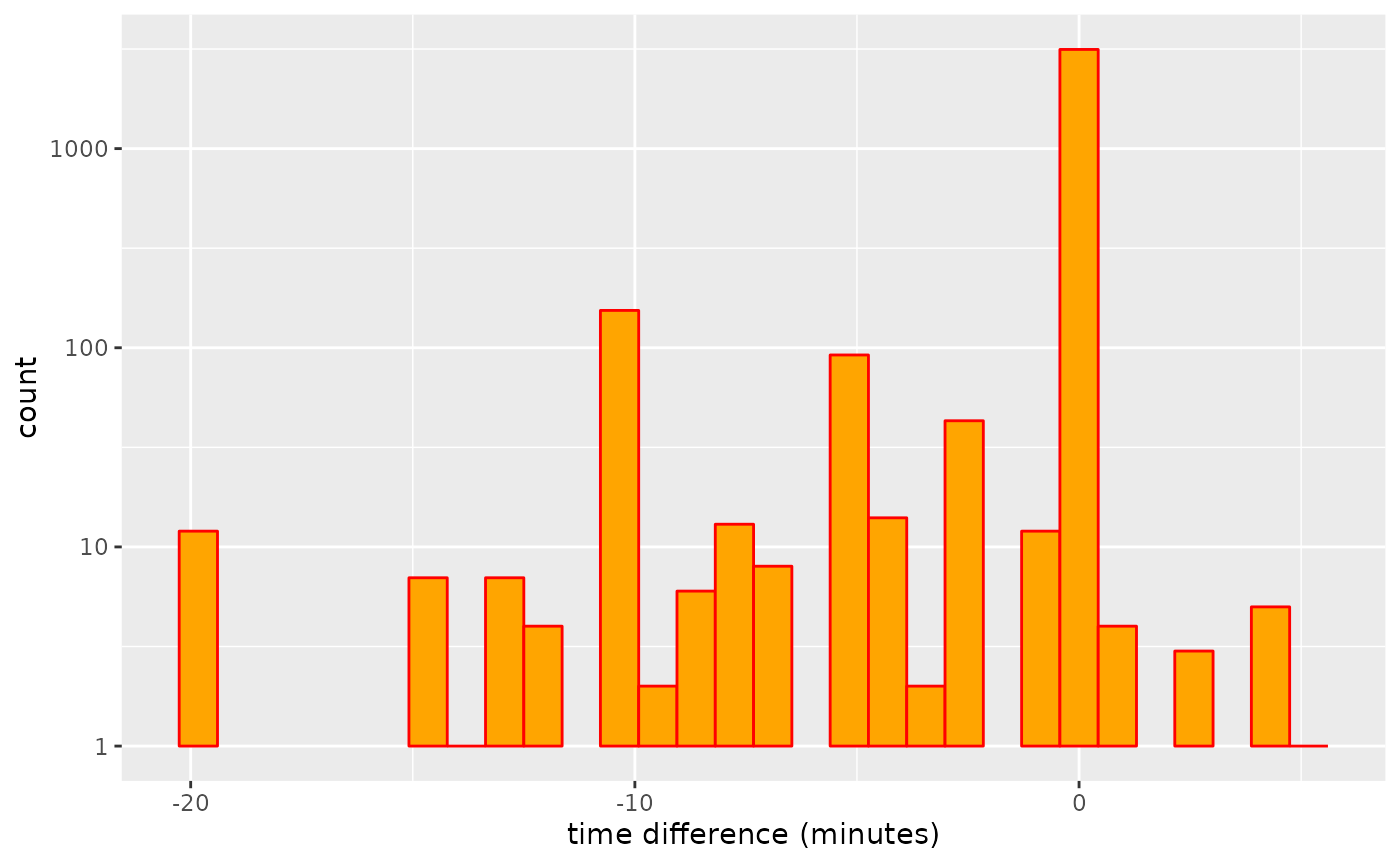
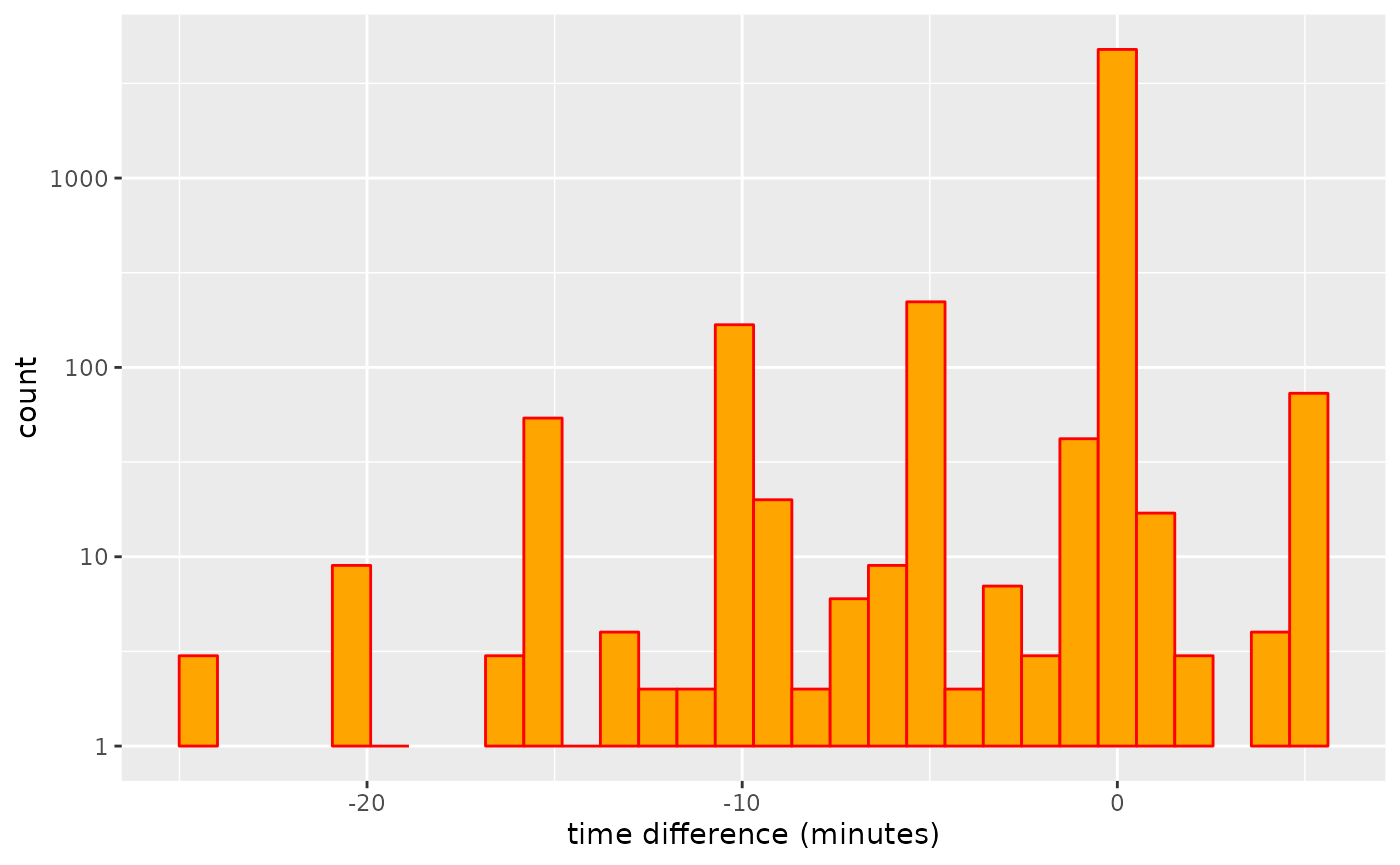
Deploying to gh-pages from @ ATFutures/gtfs-router@fb224cba6262847dd1db0ab573176840782fd7f6 🚀

diff --git a/docs/articles/gtfsrouter.html b/docs/articles/gtfsrouter.html
@@ -33,7 +33,7 @@
       </button>
       <span class="navbar-brand">
         <a class="navbar-link" href="../index.html">gtfsrouter</a>
-        <span class="version label label-default" data-toggle="tooltip" data-placement="bottom" title="">0.0.5.153</span>
+        <span class="version label label-default" data-toggle="tooltip" data-placement="bottom" title="">0.0.5.155</span>
       </span>
     </div>
 
@@ -126,7 +126,7 @@ to a locally-stored <code>.zip</code> archive in the
 data can be exported and re-imported with:</p>
 <div class="sourceCode" id="cb1"><pre class="downlit sourceCode r">
 <code class="sourceCode R"><span><span class="fu"><a href="../reference/berlin_gtfs_to_zip.html">berlin_gtfs_to_zip</a></span><span class="op">(</span><span class="op">)</span></span></code></pre></div>
-<pre><code><span><span class="co">## [1] "/tmp/Rtmpyirhtj/vbb.zip"</span></span></code></pre>
+<pre><code><span><span class="co">## [1] "/tmp/RtmphzCcmX/vbb.zip"</span></span></code></pre>
 <div class="sourceCode" id="cb3"><pre class="downlit sourceCode r">
 <code class="sourceCode R"><span><span class="va">f</span> <span class="op">&lt;-</span> <span class="fu"><a href="https://rdrr.io/r/base/file.path.html" class="external-link">file.path</a></span> <span class="op">(</span><span class="fu"><a href="https://rdrr.io/r/base/tempfile.html" class="external-link">tempdir</a></span> <span class="op">(</span><span class="op">)</span>, <span class="st">"vbb.zip"</span><span class="op">)</span></span>
 <span><span class="fu"><a href="https://rdrr.io/r/base/files.html" class="external-link">file.exists</a></span> <span class="op">(</span><span class="va">f</span><span class="op">)</span></span></code></pre></div>
@@ -347,7 +347,7 @@ data:</p>
 <span>                day <span class="op">=</span> <span class="st">"Sunday"</span><span class="op">)</span></span>
 <span>    <span class="op">)</span></span></code></pre></div>
 <pre><code><span><span class="co">##    user  system elapsed </span></span>
-<span><span class="co">##   0.082   0.000   0.082</span></span></code></pre>
+<span><span class="co">##   0.052   0.000   0.053</span></span></code></pre>
 <div class="sourceCode" id="cb14"><pre class="downlit sourceCode r">
 <code class="sourceCode R"><span><span class="fu"><a href="https://rdrr.io/r/base/names.html" class="external-link">names</a></span> <span class="op">(</span><span class="va">gtfs</span><span class="op">)</span></span></code></pre></div>
 <pre><code><span><span class="co">## [1] "calendar"   "routes"     "trips"      "stop_times" "stops"     </span></span>
@@ -365,7 +365,7 @@ data:</p>
 <span>                         to <span class="op">=</span> <span class="va">to</span>,</span>
 <span>                         start_time <span class="op">=</span> <span class="st">"12:00:00"</span><span class="op">)</span><span class="op">)</span></span></code></pre></div>
 <pre><code><span><span class="co">##    user  system elapsed </span></span>
-<span><span class="co">##   0.067   0.000   0.067</span></span></code></pre>
+<span><span class="co">##   0.042   0.000   0.042</span></span></code></pre>
 <p>Note that the <code>day</code> parameter is used to extract the
 timetable, after which it is no longer required in the actual call to
 <code><a href="../reference/gtfs_route.html">gtfs_route()</a></code>.</p>

diff --git a/docs/articles/traveltimes.html b/docs/articles/traveltimes.html
@@ -33,7 +33,7 @@
       </button>
       <span class="navbar-brand">
         <a class="navbar-link" href="../index.html">gtfsrouter</a>
-        <span class="version label label-default" data-toggle="tooltip" data-placement="bottom" title="">0.0.5.153</span>
+        <span class="version label label-default" data-toggle="tooltip" data-placement="bottom" title="">0.0.5.155</span>
       </span>
     </div>
 
@@ -101,7 +101,7 @@ function</a>, is necessary prior to calculating travel times.</p>
 <div class="sourceCode" id="cb1"><pre class="downlit sourceCode r">
 <code class="sourceCode R"><span><span class="kw"><a href="https://rdrr.io/r/base/library.html" class="external-link">library</a></span> <span class="op">(</span><span class="va"><a href="https://github.com/ATFutures/gtfs-router" class="external-link">gtfsrouter</a></span><span class="op">)</span></span>
 <span><span class="fu"><a href="../reference/berlin_gtfs_to_zip.html">berlin_gtfs_to_zip</a></span> <span class="op">(</span><span class="op">)</span></span></code></pre></div>
-<pre><code><span><span class="co">## [1] "/tmp/Rtmpxjd0dH/vbb.zip"</span></span></code></pre>
+<pre><code><span><span class="co">## [1] "/tmp/RtmpeUBqgY/vbb.zip"</span></span></code></pre>
 <div class="sourceCode" id="cb3"><pre class="downlit sourceCode r">
 <code class="sourceCode R"><span><span class="va">f</span> <span class="op">&lt;-</span> <span class="fu"><a href="https://rdrr.io/r/base/file.path.html" class="external-link">file.path</a></span> <span class="op">(</span><span class="fu"><a href="https://rdrr.io/r/base/tempfile.html" class="external-link">tempdir</a></span> <span class="op">(</span><span class="op">)</span>, <span class="st">"vbb.zip"</span><span class="op">)</span></span>
 <span><span class="va">gtfs</span> <span class="op">&lt;-</span> <span class="fu"><a href="../reference/extract_gtfs.html">extract_gtfs</a></span> <span class="op">(</span><span class="va">f</span>, quiet <span class="op">=</span> <span class="cn">TRUE</span><span class="op">)</span></span>

diff --git a/docs/reference/gtfs_transfer_table.html b/docs/reference/gtfs_transfer_table.html
@@ -17,7 +17,7 @@
       </button>
       <span class="navbar-brand">
         <a class="navbar-link" href="../index.html">gtfsrouter</a>
-        <span class="version label label-default" data-toggle="tooltip" data-placement="bottom" title="">0.0.5.153</span>
+        <span class="version label label-default" data-toggle="tooltip" data-placement="bottom" title="">0.0.5.155</span>
       </span>
     </div>
 
@@ -113,7 +113,7 @@ provided, this parameter is automatically set to <code>TRUE</code>.</p></dd>
     <div id="ref-examples">
     <h2>Examples</h2>
     <div class="sourceCode"><pre class="sourceCode r"><code><span class="r-in"><span><span class="fu"><a href="berlin_gtfs_to_zip.html">berlin_gtfs_to_zip</a></span> <span class="op">(</span><span class="op">)</span></span></span>
-<span class="r-out co"><span class="r-pr">#&gt;</span> [1] "/tmp/RtmpRHdU8m/vbb.zip"</span>
+<span class="r-out co"><span class="r-pr">#&gt;</span> [1] "/tmp/RtmpOVtKge/vbb.zip"</span>
 <span class="r-in"><span><span class="va">f</span> <span class="op">&lt;-</span> <span class="fu"><a href="https://rdrr.io/r/base/file.path.html" class="external-link">file.path</a></span> <span class="op">(</span><span class="fu"><a href="https://rdrr.io/r/base/tempfile.html" class="external-link">tempdir</a></span> <span class="op">(</span><span class="op">)</span>, <span class="st">"vbb.zip"</span><span class="op">)</span></span></span>
 <span class="r-in"><span><span class="va">g</span> <span class="op">&lt;-</span> <span class="fu"><a href="extract_gtfs.html">extract_gtfs</a></span> <span class="op">(</span><span class="va">f</span>, quiet <span class="op">=</span> <span class="cn">TRUE</span><span class="op">)</span></span></span>
 <span class="r-in"><span><span class="va">g</span> <span class="op">&lt;-</span> <span class="fu">gtfs_transfer_table</span> <span class="op">(</span><span class="va">g</span>, d_limit <span class="op">=</span> <span class="fl">200</span><span class="op">)</span></span></span>

diff --git a/docs/reference/gtfs_route.html b/docs/reference/gtfs_route.html
@@ -18,7 +18,7 @@ a specified time."><!-- mathjax --><script src="https://cdnjs.cloudflare.com/aja
       </button>
       <span class="navbar-brand">
         <a class="navbar-link" href="../index.html">gtfsrouter</a>
-        <span class="version label label-default" data-toggle="tooltip" data-placement="bottom" title="">0.0.5.153</span>
+        <span class="version label label-default" data-toggle="tooltip" data-placement="bottom" title="">0.0.5.155</span>
       </span>
     </div>
 
@@ -182,7 +182,7 @@ can be calculated by setting <code>earliest_arrival = FALSE</code>.</p>
     <div id="ref-examples">
     <h2>Examples</h2>
     <div class="sourceCode"><pre class="sourceCode r"><code><span class="r-in"><span><span class="fu"><a href="berlin_gtfs_to_zip.html">berlin_gtfs_to_zip</a></span> <span class="op">(</span><span class="op">)</span> <span class="co"># Write sample feed from Berlin, Germany to tempdir</span></span></span>
-<span class="r-out co"><span class="r-pr">#&gt;</span> [1] "/tmp/RtmpRHdU8m/vbb.zip"</span>
+<span class="r-out co"><span class="r-pr">#&gt;</span> [1] "/tmp/RtmpOVtKge/vbb.zip"</span>
 <span class="r-in"><span><span class="va">f</span> <span class="op">&lt;-</span> <span class="fu"><a href="https://rdrr.io/r/base/file.path.html" class="external-link">file.path</a></span> <span class="op">(</span><span class="fu"><a href="https://rdrr.io/r/base/tempfile.html" class="external-link">tempdir</a></span> <span class="op">(</span><span class="op">)</span>, <span class="st">"vbb.zip"</span><span class="op">)</span> <span class="co"># name of feed</span></span></span>
 <span class="r-in"><span><span class="va">gtfs</span> <span class="op">&lt;-</span> <span class="fu"><a href="extract_gtfs.html">extract_gtfs</a></span> <span class="op">(</span><span class="va">f</span><span class="op">)</span></span></span>
 <span class="r-msg co"><span class="r-pr">#&gt;</span> ▶<span style="color: #00BB00;"> Unzipping GTFS archive</span></span>

diff --git a/docs/reference/berlin_gtfs.html b/docs/reference/berlin_gtfs.html
@@ -23,7 +23,7 @@ characters.'><!-- mathjax --><script src="https://cdnjs.cloudflare.com/ajax/libs
       </button>
       <span class="navbar-brand">
         <a class="navbar-link" href="../index.html">gtfsrouter</a>
-        <span class="version label label-default" data-toggle="tooltip" data-placement="bottom" title="">0.0.5.153</span>
+        <span class="version label label-default" data-toggle="tooltip" data-placement="bottom" title="">0.0.5.155</span>
       </span>
     </div>
 
@@ -96,7 +96,7 @@ for which no route is possible return <code>NULL</code>.</p>
     <div id="ref-examples">
     <h2>Examples</h2>
     <div class="sourceCode"><pre class="sourceCode r"><code><span class="r-in"><span><span class="fu"><a href="berlin_gtfs_to_zip.html">berlin_gtfs_to_zip</a></span> <span class="op">(</span><span class="op">)</span> <span class="co"># Write sample feed from Berlin, Germany to tempdir</span></span></span>
-<span class="r-out co"><span class="r-pr">#&gt;</span> [1] "/tmp/RtmpRHdU8m/vbb.zip"</span>
+<span class="r-out co"><span class="r-pr">#&gt;</span> [1] "/tmp/RtmpOVtKge/vbb.zip"</span>
 <span class="r-in"><span><span class="va">f</span> <span class="op">&lt;-</span> <span class="fu"><a href="https://rdrr.io/r/base/file.path.html" class="external-link">file.path</a></span> <span class="op">(</span><span class="fu"><a href="https://rdrr.io/r/base/tempfile.html" class="external-link">tempdir</a></span> <span class="op">(</span><span class="op">)</span>, <span class="st">"vbb.zip"</span><span class="op">)</span> <span class="co"># name of feed</span></span></span>
 <span class="r-in"><span><span class="va">gtfs</span> <span class="op">&lt;-</span> <span class="fu"><a href="extract_gtfs.html">extract_gtfs</a></span> <span class="op">(</span><span class="va">f</span><span class="op">)</span></span></span>
 <span class="r-msg co"><span class="r-pr">#&gt;</span> ▶<span style="color: #00BB00;"> Unzipping GTFS archive</span></span>

diff --git a/docs/reference/gtfs_timetable.html b/docs/reference/gtfs_timetable.html
@@ -17,7 +17,7 @@
       </button>
       <span class="navbar-brand">
         <a class="navbar-link" href="../index.html">gtfsrouter</a>
-        <span class="version label label-default" data-toggle="tooltip" data-placement="bottom" title="">0.0.5.153</span>
+        <span class="version label label-default" data-toggle="tooltip" data-placement="bottom" title="">0.0.5.155</span>
       </span>
     </div>
 
@@ -126,7 +126,7 @@ that case will generally take longer.</p>
     <div id="ref-examples">
     <h2>Examples</h2>
     <div class="sourceCode"><pre class="sourceCode r"><code><span class="r-in"><span><span class="fu"><a href="berlin_gtfs_to_zip.html">berlin_gtfs_to_zip</a></span> <span class="op">(</span><span class="op">)</span> <span class="co"># Write sample feed from Berlin, Germany to tempdir</span></span></span>
-<span class="r-out co"><span class="r-pr">#&gt;</span> [1] "/tmp/RtmpRHdU8m/vbb.zip"</span>
+<span class="r-out co"><span class="r-pr">#&gt;</span> [1] "/tmp/RtmpOVtKge/vbb.zip"</span>
 <span class="r-in"><span><span class="va">f</span> <span class="op">&lt;-</span> <span class="fu"><a href="https://rdrr.io/r/base/file.path.html" class="external-link">file.path</a></span> <span class="op">(</span><span class="fu"><a href="https://rdrr.io/r/base/tempfile.html" class="external-link">tempdir</a></span> <span class="op">(</span><span class="op">)</span>, <span class="st">"vbb.zip"</span><span class="op">)</span> <span class="co"># name of feed</span></span></span>
 <span class="r-in"><span><span class="va">gtfs</span> <span class="op">&lt;-</span> <span class="fu"><a href="extract_gtfs.html">extract_gtfs</a></span> <span class="op">(</span><span class="va">f</span><span class="op">)</span></span></span>
 <span class="r-msg co"><span class="r-pr">#&gt;</span> ▶<span style="color: #00BB00;"> Unzipping GTFS archive</span></span>

diff --git a/docs/reference/gtfs_traveltimes.html b/docs/reference/gtfs_traveltimes.html
@@ -18,7 +18,7 @@ other reachable station in a system."><!-- mathjax --><script src="https://cdnjs
       </button>
       <span class="navbar-brand">
         <a class="navbar-link" href="../index.html">gtfsrouter</a>
-        <span class="version label label-default" data-toggle="tooltip" data-placement="bottom" title="">0.0.5.153</span>
+        <span class="version label label-default" data-toggle="tooltip" data-placement="bottom" title="">0.0.5.155</span>
       </span>
     </div>
 
@@ -155,7 +155,7 @@ to reach all or most stations desired for a particular query, rather than set
     <div id="ref-examples">
     <h2>Examples</h2>
     <div class="sourceCode"><pre class="sourceCode r"><code><span class="r-in"><span><span class="fu"><a href="berlin_gtfs_to_zip.html">berlin_gtfs_to_zip</a></span> <span class="op">(</span><span class="op">)</span></span></span>
-<span class="r-out co"><span class="r-pr">#&gt;</span> [1] "/tmp/RtmpRHdU8m/vbb.zip"</span>
+<span class="r-out co"><span class="r-pr">#&gt;</span> [1] "/tmp/RtmpOVtKge/vbb.zip"</span>
 <span class="r-in"><span><span class="va">f</span> <span class="op">&lt;-</span> <span class="fu"><a href="https://rdrr.io/r/base/file.path.html" class="external-link">file.path</a></span> <span class="op">(</span><span class="fu"><a href="https://rdrr.io/r/base/tempfile.html" class="external-link">tempdir</a></span> <span class="op">(</span><span class="op">)</span>, <span class="st">"vbb.zip"</span><span class="op">)</span></span></span>
 <span class="r-in"><span><span class="va">g</span> <span class="op">&lt;-</span> <span class="fu"><a href="extract_gtfs.html">extract_gtfs</a></span> <span class="op">(</span><span class="va">f</span><span class="op">)</span></span></span>
 <span class="r-msg co"><span class="r-pr">#&gt;</span> ▶<span style="color: #00BB00;"> Unzipping GTFS archive</span></span>

diff --git a/docs/reference/extract_gtfs.html b/docs/reference/extract_gtfs.html
@@ -17,7 +17,7 @@
       </button>
       <span class="navbar-brand">
         <a class="navbar-link" href="../index.html">gtfsrouter</a>
-        <span class="version label label-default" data-toggle="tooltip" data-placement="bottom" title="">0.0.5.153</span>
+        <span class="version label label-default" data-toggle="tooltip" data-placement="bottom" title="">0.0.5.155</span>
       </span>
     </div>
 
@@ -102,7 +102,7 @@ function to the two time columns of the "stop_times" table.</p>
     <div id="ref-examples">
     <h2>Examples</h2>
     <div class="sourceCode"><pre class="sourceCode r"><code><span class="r-in"><span><span class="fu"><a href="berlin_gtfs_to_zip.html">berlin_gtfs_to_zip</a></span> <span class="op">(</span><span class="op">)</span> <span class="co"># Write sample feed from Berlin, Germany to tempdir</span></span></span>
-<span class="r-out co"><span class="r-pr">#&gt;</span> [1] "/tmp/RtmpRHdU8m/vbb.zip"</span>
+<span class="r-out co"><span class="r-pr">#&gt;</span> [1] "/tmp/RtmpOVtKge/vbb.zip"</span>
 <span class="r-in"><span><span class="va">f</span> <span class="op">&lt;-</span> <span class="fu"><a href="https://rdrr.io/r/base/file.path.html" class="external-link">file.path</a></span> <span class="op">(</span><span class="fu"><a href="https://rdrr.io/r/base/tempfile.html" class="external-link">tempdir</a></span> <span class="op">(</span><span class="op">)</span>, <span class="st">"vbb.zip"</span><span class="op">)</span> <span class="co"># name of feed</span></span></span>
 <span class="r-in"><span><span class="va">gtfs</span> <span class="op">&lt;-</span> <span class="fu">extract_gtfs</span> <span class="op">(</span><span class="va">f</span><span class="op">)</span></span></span>
 <span class="r-msg co"><span class="r-pr">#&gt;</span> ▶<span style="color: #00BB00;"> Unzipping GTFS archive</span></span>

diff --git a/docs/articles/transfers.html b/docs/articles/transfers.html
@@ -33,7 +33,7 @@
       </button>
       <span class="navbar-brand">
         <a class="navbar-link" href="../index.html">gtfsrouter</a>
-        <span class="version label label-default" data-toggle="tooltip" data-placement="bottom" title="">0.0.5.153</span>
+        <span class="version label label-default" data-toggle="tooltip" data-placement="bottom" title="">0.0.5.155</span>
       </span>
     </div>
 
@@ -594,9 +594,9 @@ range of distance limits.</p>
 <p><img src="transfers_files/figure-html/plot1-1.png" width="700"></p>
 <p>And these additional transfer possibilities can make a significant
 difference to estimated travel times. Note, however, that the travel
-times only changed for 393 stations, while the value of
+times only changed for 604 stations, while the value of
 <code>nsame</code> value recording numbers of stations for which travel
-times did not change was 5,143. Travel times may also increase as
+times did not change was 4,868. Travel times may also increase as
 additional transfers may be used to reduce numbers of connecting
 services required for a particular trip, and the algorithm generally
 searches for connections with minimal numbers of transfers.</p>
@@ -678,7 +678,7 @@ limits of maximal transfer distance, although the overall effect is very
 minimal. The object <code>d</code> also records the proportion of
 station pairs for which modifications to the transfers table actually
 changed travel times, which in this case amounts to a mean value of
-7^{-4}, clearly revealing that very few trips actually change.</p>
+0.0022, clearly revealing that very few trips actually change.</p>
 <div class="section level3">
 <h3 id="a-more-realistic-example">A more realistic example<a class="anchor" aria-label="anchor" href="#a-more-realistic-example"></a>
 </h3>

diff --git a/docs/reference/summary.gtfs.html b/docs/reference/summary.gtfs.html
@@ -17,7 +17,7 @@
       </button>
       <span class="navbar-brand">
         <a class="navbar-link" href="../index.html">gtfsrouter</a>
-        <span class="version label label-default" data-toggle="tooltip" data-placement="bottom" title="">0.0.5.153</span>
+        <span class="version label label-default" data-toggle="tooltip" data-placement="bottom" title="">0.0.5.155</span>
       </span>
     </div>
 
@@ -81,7 +81,7 @@
     <div id="ref-examples">
     <h2>Examples</h2>
     <div class="sourceCode"><pre class="sourceCode r"><code><span class="r-in"><span><span class="fu"><a href="berlin_gtfs_to_zip.html">berlin_gtfs_to_zip</a></span> <span class="op">(</span><span class="op">)</span></span></span>
-<span class="r-out co"><span class="r-pr">#&gt;</span> [1] "/tmp/RtmpRHdU8m/vbb.zip"</span>
+<span class="r-out co"><span class="r-pr">#&gt;</span> [1] "/tmp/RtmpOVtKge/vbb.zip"</span>
 <span class="r-in"><span><span class="va">f</span> <span class="op">&lt;-</span> <span class="fu"><a href="https://rdrr.io/r/base/file.path.html" class="external-link">file.path</a></span> <span class="op">(</span><span class="fu"><a href="https://rdrr.io/r/base/tempfile.html" class="external-link">tempdir</a></span> <span class="op">(</span><span class="op">)</span>, <span class="st">"vbb.zip"</span><span class="op">)</span></span></span>
 <span class="r-in"><span><span class="va">g</span> <span class="op">&lt;-</span> <span class="fu"><a href="extract_gtfs.html">extract_gtfs</a></span> <span class="op">(</span><span class="va">f</span><span class="op">)</span></span></span>
 <span class="r-msg co"><span class="r-pr">#&gt;</span> ▶<span style="color: #00BB00;"> Unzipping GTFS archive</span></span>

diff --git a/docs/authors.html b/docs/authors.html
@@ -17,7 +17,7 @@
       </button>
       <span class="navbar-brand">
         <a class="navbar-link" href="index.html">gtfsrouter</a>
-        <span class="version label label-default" data-toggle="tooltip" data-placement="bottom" title="">0.0.5.153</span>
+        <span class="version label label-default" data-toggle="tooltip" data-placement="bottom" title="">0.0.5.155</span>
       </span>
     </div>
 
@@ -74,13 +74,13 @@
 
     <p>Padgham M, Stepniak M (2023).
 <em>gtfsrouter: Routing with GTFS (General Transit Feed Specification) Data</em>.
-R package version 0.0.5.153, <a href="https://github.com/ATFutures/gtfs-router" class="external-link">https://github.com/ATFutures/gtfs-router</a>. 
+R package version 0.0.5.155, <a href="https://github.com/ATFutures/gtfs-router" class="external-link">https://github.com/ATFutures/gtfs-router</a>. 
 </p>
     <pre>@Manual{,
   title = {gtfsrouter: Routing with GTFS (General Transit Feed Specification) Data},
   author = {Mark Padgham and Marcin Stepniak},
   year = {2023},
-  note = {R package version 0.0.5.153},
+  note = {R package version 0.0.5.155},
   url = {https://github.com/ATFutures/gtfs-router},
 }</pre>
 

diff --git a/docs/reference/berlin_gtfs_to_zip.html b/docs/reference/berlin_gtfs_to_zip.html
@@ -18,7 +18,7 @@ a file named "vbb.zip" to tempdir().'><!-- mathjax --><script src="https://cdnjs
       </button>
       <span class="navbar-brand">
         <a class="navbar-link" href="../index.html">gtfsrouter</a>
-        <span class="version label label-default" data-toggle="tooltip" data-placement="bottom" title="">0.0.5.153</span>
+        <span class="version label label-default" data-toggle="tooltip" data-placement="bottom" title="">0.0.5.155</span>
       </span>
     </div>
 
